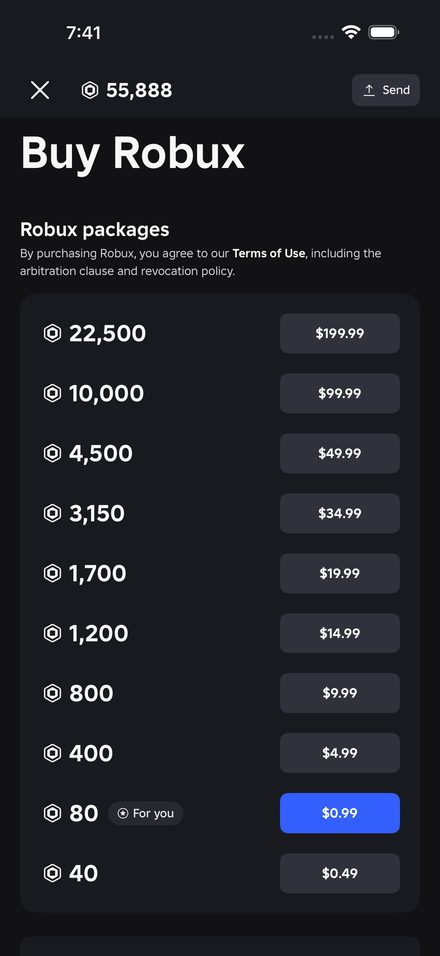
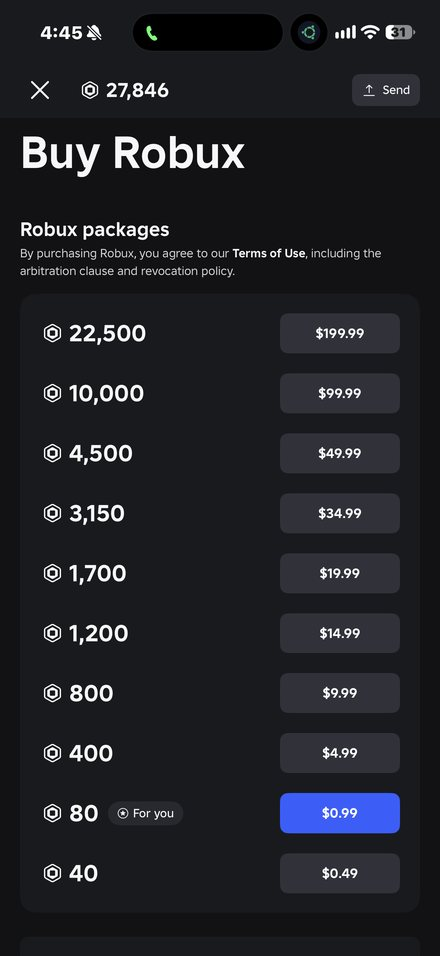
readme screenshots

Changed region(s): [[0.2364, 0.0, 0.9455, 0.1213], [0.0886, 0.0303, 0.2364, 0.0607]]

diff --git a/README.md b/README.md
@@ -2,11 +2,21 @@
 
 roblox look-alike for iphone. fake profile, robux, avatar, marketplace, the lot. just for fun, not affiliated with roblox.
 
-<p>
-  <img src="shots/marketplace.jpg" width="160">
-  <img src="shots/item.jpg" width="160">
-  <img src="shots/robux.jpg" width="160">
-</p>
+## the app
+
+| <img src="shots/profile.jpg" width="170"> | <img src="shots/menu.jpg" width="170"> | <img src="shots/marketplace.jpg" width="170"> | <img src="shots/item.jpg" width="170"> | <img src="shots/robux.jpg" width="170"> |
+|:-:|:-:|:-:|:-:|:-:|
+| profile | menu | marketplace | item page | buy robux |
+
+## the editor
+
+everything on the profile is yours to set.
+
+| <img src="shots/edit-profile.jpg" width="170"> | <img src="shots/outfits.jpg" width="170"> | <img src="shots/skin.jpg" width="170"> | <img src="shots/build.jpg" width="170"> |
+|:-:|:-:|:-:|:-:|
+| edit profile | saved outfits | skin | build |
+
+## build
 
 swiftui, built unsigned on github actions, installed with sideloadly.
 
